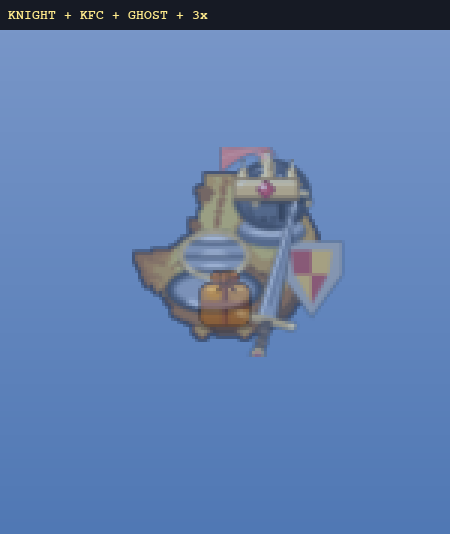
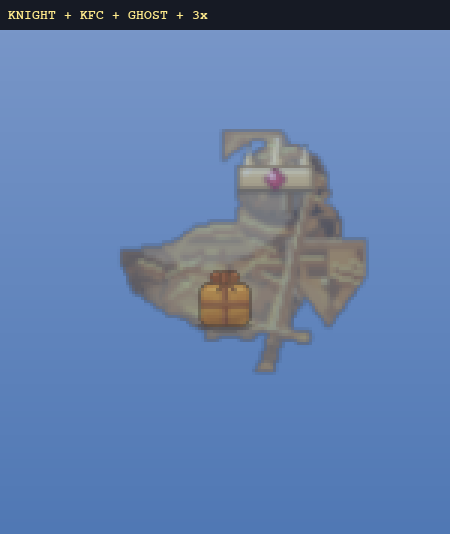
Knight+KFC: base the KFC+Ghost stacks on the real fried knight too
The kn+kfc+ghost / kn+kfc+ghost+3x stacks still used the old spectral-cyan parrot
body under steel armour. Re-base them on the shipped fried knight: add
fried_ghost_knight_core_frames() = the deep-fried knight (same KFC fry recipe) +
ghost cyan tint, normal size; build_knight_kfc_ghost_frames plumps it, and the
crowned stack crowns the core then plumps (matching the kfc_hat ordering). Now
every knight+kfc interaction reads as the same fried knight -- golden when alone,
spectral when ghosted, crowned at +3x. 19 tests pass.

https://claude.ai/code/session_0198wUfDSqXDZqGjdP4sx98r

Changed region(s): [[0.2489, 0.2397, 0.84, 0.7191]]

diff --git a/game/knight_skin.py b/game/knight_skin.py
@@ -461,10 +461,21 @@ def build_knight_ghost_frames():
             for f in parrot._ensure_ghost_frames()]
 
 
+def fried_ghost_knight_core_frames():
+    """Spectral FRIED knight (normal size, BEFORE plump): the deep-fried knight
+    — the SAME KFC fry recipe as the basis — given the ghost cyan tint, so the
+    KFC+Ghost stacks read as a fried knight gone spectral rather than a separate
+    cyan parrot under steel. The draw-time ghost alpha-breath then makes it
+    translucent; the +3x stack crowns THIS core then plumps."""
+    frames = fried_knight_core_frames()
+    for f in frames:
+        parrot._cyan_tint_in_place(f)
+    return frames
+
+
 def build_knight_kfc_ghost_frames():
-    """Fried + spectral knight — the cyan-tinted fried body under steel armour."""
-    return [_build_knight_frame(f, body_recolor=False)
-            for f in parrot._ensure_kfc_ghost_frames()]
+    """Spectral fried knight — the fried knight as the basis, ghost-tinted + plumped."""
+    return plump_frames(fried_ghost_knight_core_frames())
 
 
 _SHIELD_ICON_CACHE: dict = {}

diff --git a/game/knight_crown.py b/game/knight_crown.py
@@ -121,5 +121,7 @@ def build_knight_ghost_hat_frames():
 
 
 def build_knight_kfc_ghost_hat_frames():
-    from game.knight_skin import build_knight_kfc_ghost_frames
-    return crown_frames(build_knight_kfc_ghost_frames())
+    # Crown the NORMAL-size spectral fried knight, then plump together (matches
+    # the kfc_hat ordering so the crown seats + scales on the bigger fried base).
+    from game.knight_skin import fried_ghost_knight_core_frames, plump_frames
+    return plump_frames(crown_frames(fried_ghost_knight_core_frames()))
